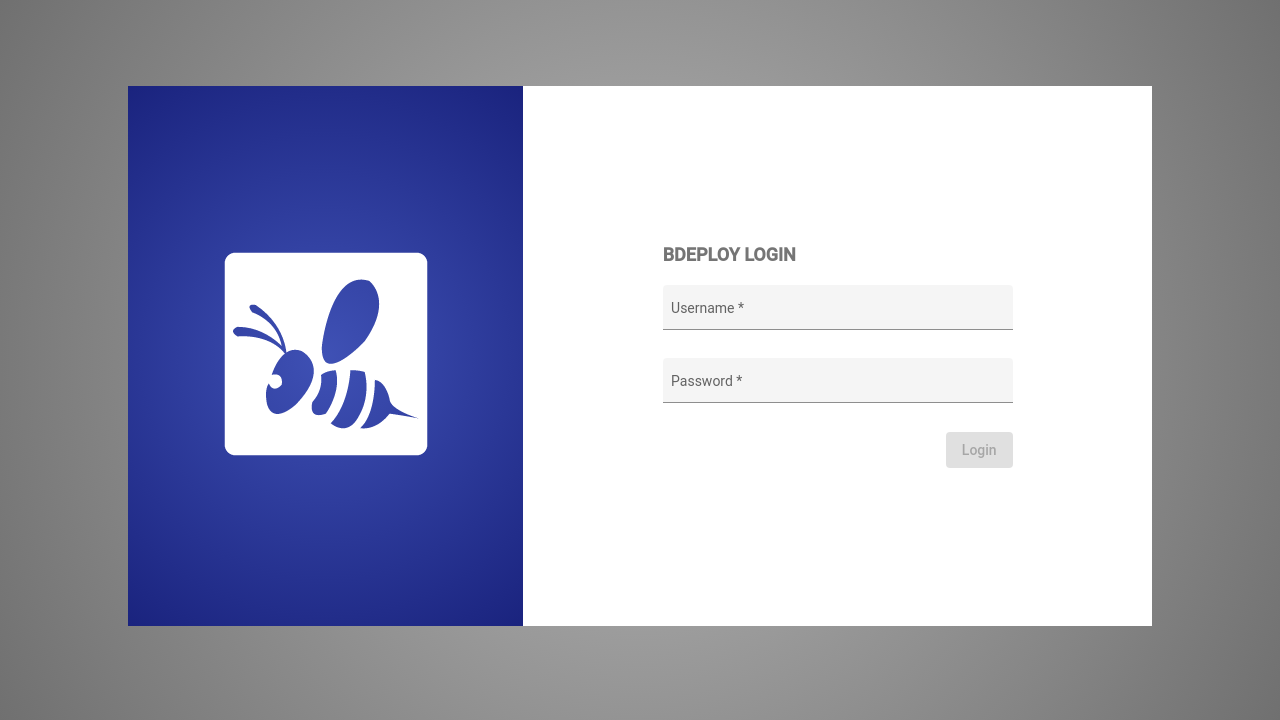
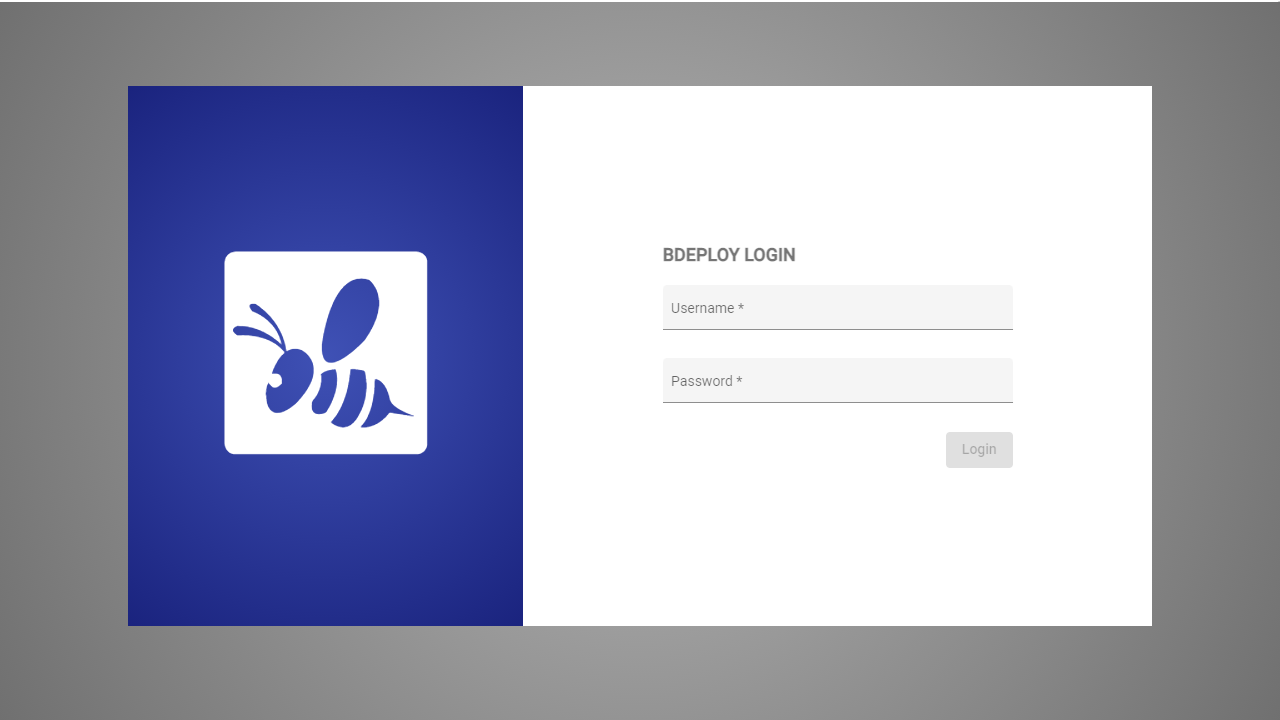
Documentation rework part 2.
Request: DCS-1358

diff --git a/ui/webapp/cypress/integration/groups.spec.js b/ui/webapp/cypress/integration/groups.spec.js
@@ -18,6 +18,13 @@ describe('Groups Tests', () => {
   it('Creates a group', () => {
     cy.visit('/');
     cy.createGroup(groupName);
+
+    cy.screenshot('Doc_SearchBarEnabled', { clip: { x: 0, y: 0, height: 80, width: 1280 } });
+    cy.screenshot('Doc_DemoGroup');
+
+    cy.enterGroup(groupName);
+    cy.waitUntilContentLoaded();
+    cy.screenshot('Doc_DemoInstancesEmpty');
   });
 
   it('Switches to card mode', () => {
@@ -26,12 +33,18 @@ describe('Groups Tests', () => {
     cy.inMainNavContent(() => {
       cy.contains('tr', groupName).should('exist');
       cy.contains('app-bd-data-card', groupName).should('not.exist');
+    });
 
+    cy.screenshot('Doc_ModeTable');
+    cy.inMainNavContent(() => {
       cy.pressToolbarButton('Toggle Card Mode');
 
       cy.contains('tr', groupName).should('not.exist');
       cy.contains('app-bd-data-card', groupName).should('exist');
+    });
 
+    cy.screenshot('Doc_ModeCards');
+    cy.inMainNavContent(() => {
       cy.pressToolbarButton('Toggle Card Mode');
 
       cy.contains('tr', groupName).should('exist');
@@ -90,8 +103,8 @@ describe('Groups Tests', () => {
   });
 
   it('Upload products to the instance group', function () {
+    cy.uploadProductIntoGroup(groupName, 'test-product-2-direct.zip', true); // this first for accurate screenshots :)
     cy.uploadProductIntoGroup(groupName, 'test-product-1-direct.zip');
-    cy.uploadProductIntoGroup(groupName, 'test-product-2-direct.zip');
     cy.verifyProductVersion(groupName, 'Demo Product', '1.0.0');
     cy.verifyProductVersion(groupName, 'Demo Product', '2.0.0');
   });
@@ -111,6 +124,9 @@ describe('Groups Tests', () => {
         .should('exist')
         .click();
     });
+
+    cy.waitUntilContentLoaded();
+    cy.screenshot('Doc_ProductDetailsPanel');
 
     cy.inMainNavFlyin('app-product-details', () => {
       // check product is unused
@@ -167,6 +183,8 @@ describe('Groups Tests', () => {
       cy.contains('app-bd-form-select[name="version"]', '2.0.0').should('exist');
     });
 
+    cy.screenshot('Doc_InstanceAdd');
+
     // ...go on checking product details stuff
     cy.pressMainNavButton('Products');
     cy.get('app-products-browser').should('exist');
@@ -201,7 +219,14 @@ describe('Groups Tests', () => {
   });
 
   it('Creates an instance', () => {
+    cy.visit('/');
+    cy.enterGroup(groupName);
+    cy.waitUntilContentLoaded();
+    cy.screenshot('Doc_DemoInstancesNoInstance');
+
     cy.createInstance(groupName, instanceName, 'Demo Product', '1.0.0');
+
+    cy.screenshot('Doc_DemoInstance');
   });
 
   it('Deletes the instance', () => {

diff --git a/ui/webapp/cypress/support/bdeploy.groups.js b/ui/webapp/cypress/support/bdeploy.groups.js
@@ -12,6 +12,8 @@ Cypress.Commands.add('createGroup', function (groupName, mode = 'STANDALONE') {
     cy.pressToolbarButton('Add Instance Group');
   });
 
+  cy.screenshot('Doc_AddGroupPanelEmpty');
+
   cy.inMainNavFlyin('app-add-group', () => {
     cy.contains('button', 'Save').should('exist').and('be.disabled');
 
@@ -19,7 +21,10 @@ Cypress.Commands.add('createGroup', function (groupName, mode = 'STANDALONE') {
     cy.fillFormInput('title', groupName);
     cy.fillFormInput('description', `Description of ${groupName}`);
     cy.fillImageUpload('bdeploy.png', 'image/png');
+  });
+  cy.screenshot('Doc_AddGroupPanelFilled');
 
+  cy.inMainNavFlyin('app-add-group', () => {
     cy.contains('button', 'Save').should('exist').and('be.enabled').click();
   });
   cy.checkMainNavFlyinClosed();
@@ -60,7 +65,7 @@ Cypress.Commands.add('deleteGroup', function (groupName, mode = 'STANDALONE') {
 /**
  * Command: uploadProductIntoGroup
  */
-Cypress.Commands.add('uploadProductIntoGroup', function (groupName, fileName, mode = 'STANDALONE') {
+Cypress.Commands.add('uploadProductIntoGroup', function (groupName, fileName, screenshots = false, mode = 'STANDALONE') {
   cy.visitBDeploy('/', mode);
   cy.waitUntilContentLoaded();
 
@@ -69,11 +74,28 @@ Cypress.Commands.add('uploadProductIntoGroup', function (groupName, fileName, mo
   cy.pressMainNavButton('Products');
   cy.get('app-products-browser').should('exist');
 
+  if (screenshots) {
+    cy.screenshot('Doc_ProductsEmpty');
+  }
+
   cy.pressToolbarButton('Upload Product');
+
+  if (screenshots) {
+    cy.screenshot('Doc_ProductsUploadPanel');
+  }
+
   cy.inMainNavFlyin('app-product-upload', () => {
     cy.fillFileDrop(fileName);
     cy.contains('app-bd-file-upload', `Uploading: ${fileName}`).should('not.exist');
   });
+
+  if (screenshots) {
+    cy.inMainNavContent(() => {
+      // TODO: demo product name hardcoded in case of screenshots - maybe not perfect.
+      cy.contains('tr', 'Demo Product').should('exist');
+    });
+    cy.screenshot('Doc_ProductsUploadSuccess');
+  }
 });
 
 /**

diff --git a/ui/webapp/cypress/integration/groups-perm.spec.js b/ui/webapp/cypress/integration/groups-perm.spec.js
@@ -130,6 +130,64 @@ describe('Groups Tests (Permissions)', () => {
     });
   });
 
+  it('Tests assigning local write permissions', () => {
+    cy.visit('/');
+    cy.enterGroup(groupName);
+    cy.pressToolbarButton('Group Settings');
+
+    cy.screenshot('Doc_GroupSettings');
+
+    cy.inMainNavFlyin('app-settings', () => {
+      cy.get('button[data-cy="Instance Group Permissions"]').click();
+    });
+
+    cy.waitUntilContentLoaded();
+    cy.screenshot('Doc_GroupPermGlobalOnly');
+
+    cy.inMainNavFlyin('app-permissions', () => {
+      cy.contains('tr', 'read')
+        .should('exist')
+        .within(() => {
+          cy.get('button[data-cy^="Modify"]').click();
+        });
+
+      cy.contains('app-bd-notification-card', 'Modify')
+        .should('exist')
+        .within(() => {
+          cy.fillFormSelect('modPerm', 'WRITE');
+        });
+    });
+
+    cy.screenshot('Doc_GroupPermSetWrite');
+
+    cy.inMainNavFlyin('app-permissions', () => {
+      cy.contains('app-bd-notification-card', 'Modify')
+        .should('exist')
+        .within(() => {
+          cy.get('button[data-cy^="OK"]').click();
+        });
+    });
+
+    cy.screenshot('Doc_GroupPermAssigned');
+  });
+
+  it('Tests read user with local permission can create instance', () => {
+    cy.pressMainNavTopButton('User Settings');
+    cy.inMainNavFlyin('app-settings', () => {
+      cy.get('button[data-cy="Logout"]').click();
+    });
+    cy.waitUntilContentLoaded();
+    cy.fillFormInput('user', 'read');
+    cy.fillFormInput('pass', 'read');
+
+    cy.get('button[type="submit"]').click();
+
+    cy.waitUntilContentLoaded();
+    cy.contains('tr', groupName).should('exist');
+
+    cy.createInstance(groupName, instanceName + '2', 'Demo Product', '2.0.0');
+  });
+
   it('Cleans up', () => {
     cy.deleteGroup(groupName);
     cy.authenticatedRequest({ method: 'DELETE', url: `${Cypress.env('backendBaseUrl')}/auth/admin?name=read`, failOnStatusCode: false });

diff --git a/ui/webapp/cypress/integration/central-managed.spec.js b/ui/webapp/cypress/integration/central-managed.spec.js
@@ -51,7 +51,7 @@ describe('Central/Managed Basic Test', function () {
   });
 
   it('Creates an instance on managed server', () => {
-    cy.uploadProductIntoGroup(groupName, 'test-product-1-direct.zip', 'MANAGED');
+    cy.uploadProductIntoGroup(groupName, 'test-product-1-direct.zip', false, 'MANAGED');
 
     cy.createInstance(groupName, instanceName, 'Demo Product', '1.0.0', 'MANAGED');
 
@@ -117,7 +117,7 @@ describe('Central/Managed Basic Test', function () {
   });
 
   it('Creates an instance on central server', () => {
-    cy.uploadProductIntoGroup(groupName, 'test-product-2-direct.zip', 'CENTRAL');
+    cy.uploadProductIntoGroup(groupName, 'test-product-2-direct.zip', false, 'CENTRAL');
     cy.createInstance(groupName, instanceName2, 'Demo Product', '2.0.0', 'CENTRAL');
 
     cy.visitManaged('/');

diff --git a/ui/webapp/cypress/support/bdeploy.group.d.ts b/ui/webapp/cypress/support/bdeploy.group.d.ts
@@ -17,7 +17,7 @@ declare namespace Cypress {
      * @param fileName the file within the fixtures directory to use.
      * @param mode the BDeploy mode to visit when uploading.
      */
-    uploadProductIntoGroup(groupName: string, fileName: string, mode?: 'STANDALONE' | 'MANAGED' | 'CENTRAL');
+    uploadProductIntoGroup(groupName: string, fileName: string, screenshots?: boolean, mode?: 'STANDALONE' | 'MANAGED' | 'CENTRAL');
 
     /**
      * @param groupName the name of the group.

diff --git a/ui/webapp/src/app/modules/panels/groups/components/settings/permissions/permissions.component.ts b/ui/webapp/src/app/modules/panels/groups/components/settings/permissions/permissions.component.ts
@@ -40,7 +40,7 @@ export class PermissionsComponent implements OnInit, OnDestroy {
   };
 
   private readonly actRemoveLocal: BdDialogMessageAction<any> = {
-    name: 'REMOVE',
+    name: 'Remove',
     result: 'REMOVE',
     confirm: false,
     disabled: () => !this.getLocalPermissionLevel(this.modUser),

diff --git a/ui/webapp/cypress/integration/login.spec.js b/ui/webapp/cypress/integration/login.spec.js
@@ -19,5 +19,8 @@ describe('Login Tests', function () {
     cy.contains('Instance Groups');
 
     cy.getCookie('st').should('exist');
+
+    cy.screenshot('Doc_SearchBarDisabled', { clip: { x: 0, y: 0, height: 80, width: 1280 } });
+    cy.screenshot('Doc_EmptyGroups');
   });
 });

diff --git a/ui/webapp/src/app/modules/core/components/bd-image-upload/bd-image-upload.component.css b/ui/webapp/src/app/modules/core/components/bd-image-upload/bd-image-upload.component.css
@@ -14,11 +14,11 @@
 .logo {
   object-fit: contain;
   width: 100%;
-  max-width: 200px;
-  max-height: 200px;
+  max-width: 220px;
+  max-height: 120px;
 }
 
 .logo-dummy {
-  width: 120px;
-  height: 120px;
+  width: 70px;
+  height: 70px;
 }

diff --git a/ui/webapp/src/app/modules/core/components/bd-button/bd-button.component.html b/ui/webapp/src/app/modules/core/components/bd-button/bd-button.component.html
@@ -8,6 +8,7 @@
   [class.local-button-collapsed]="collapsed"
   [matTooltip]="tooltip ? text : ''"
   [matTooltipPosition]="tooltip"
+  matTooltipShowDelay="500"
   [disabled]="disabled"
   [type]="isSubmit ? 'submit' : 'button'"
 >

diff --git a/ui/webapp/cypress/integration/admin-settings.spec.js b/ui/webapp/cypress/integration/admin-settings.spec.js
@@ -181,6 +181,8 @@ describe('Admin UI Tests (Settings)', () => {
       });
     });
 
+    cy.screenshot('Doc_GroupingPanel');
+
     cy.get('.cdk-overlay-backdrop-showing').click('top');
 
     cy.inMainNavContent(() => {
